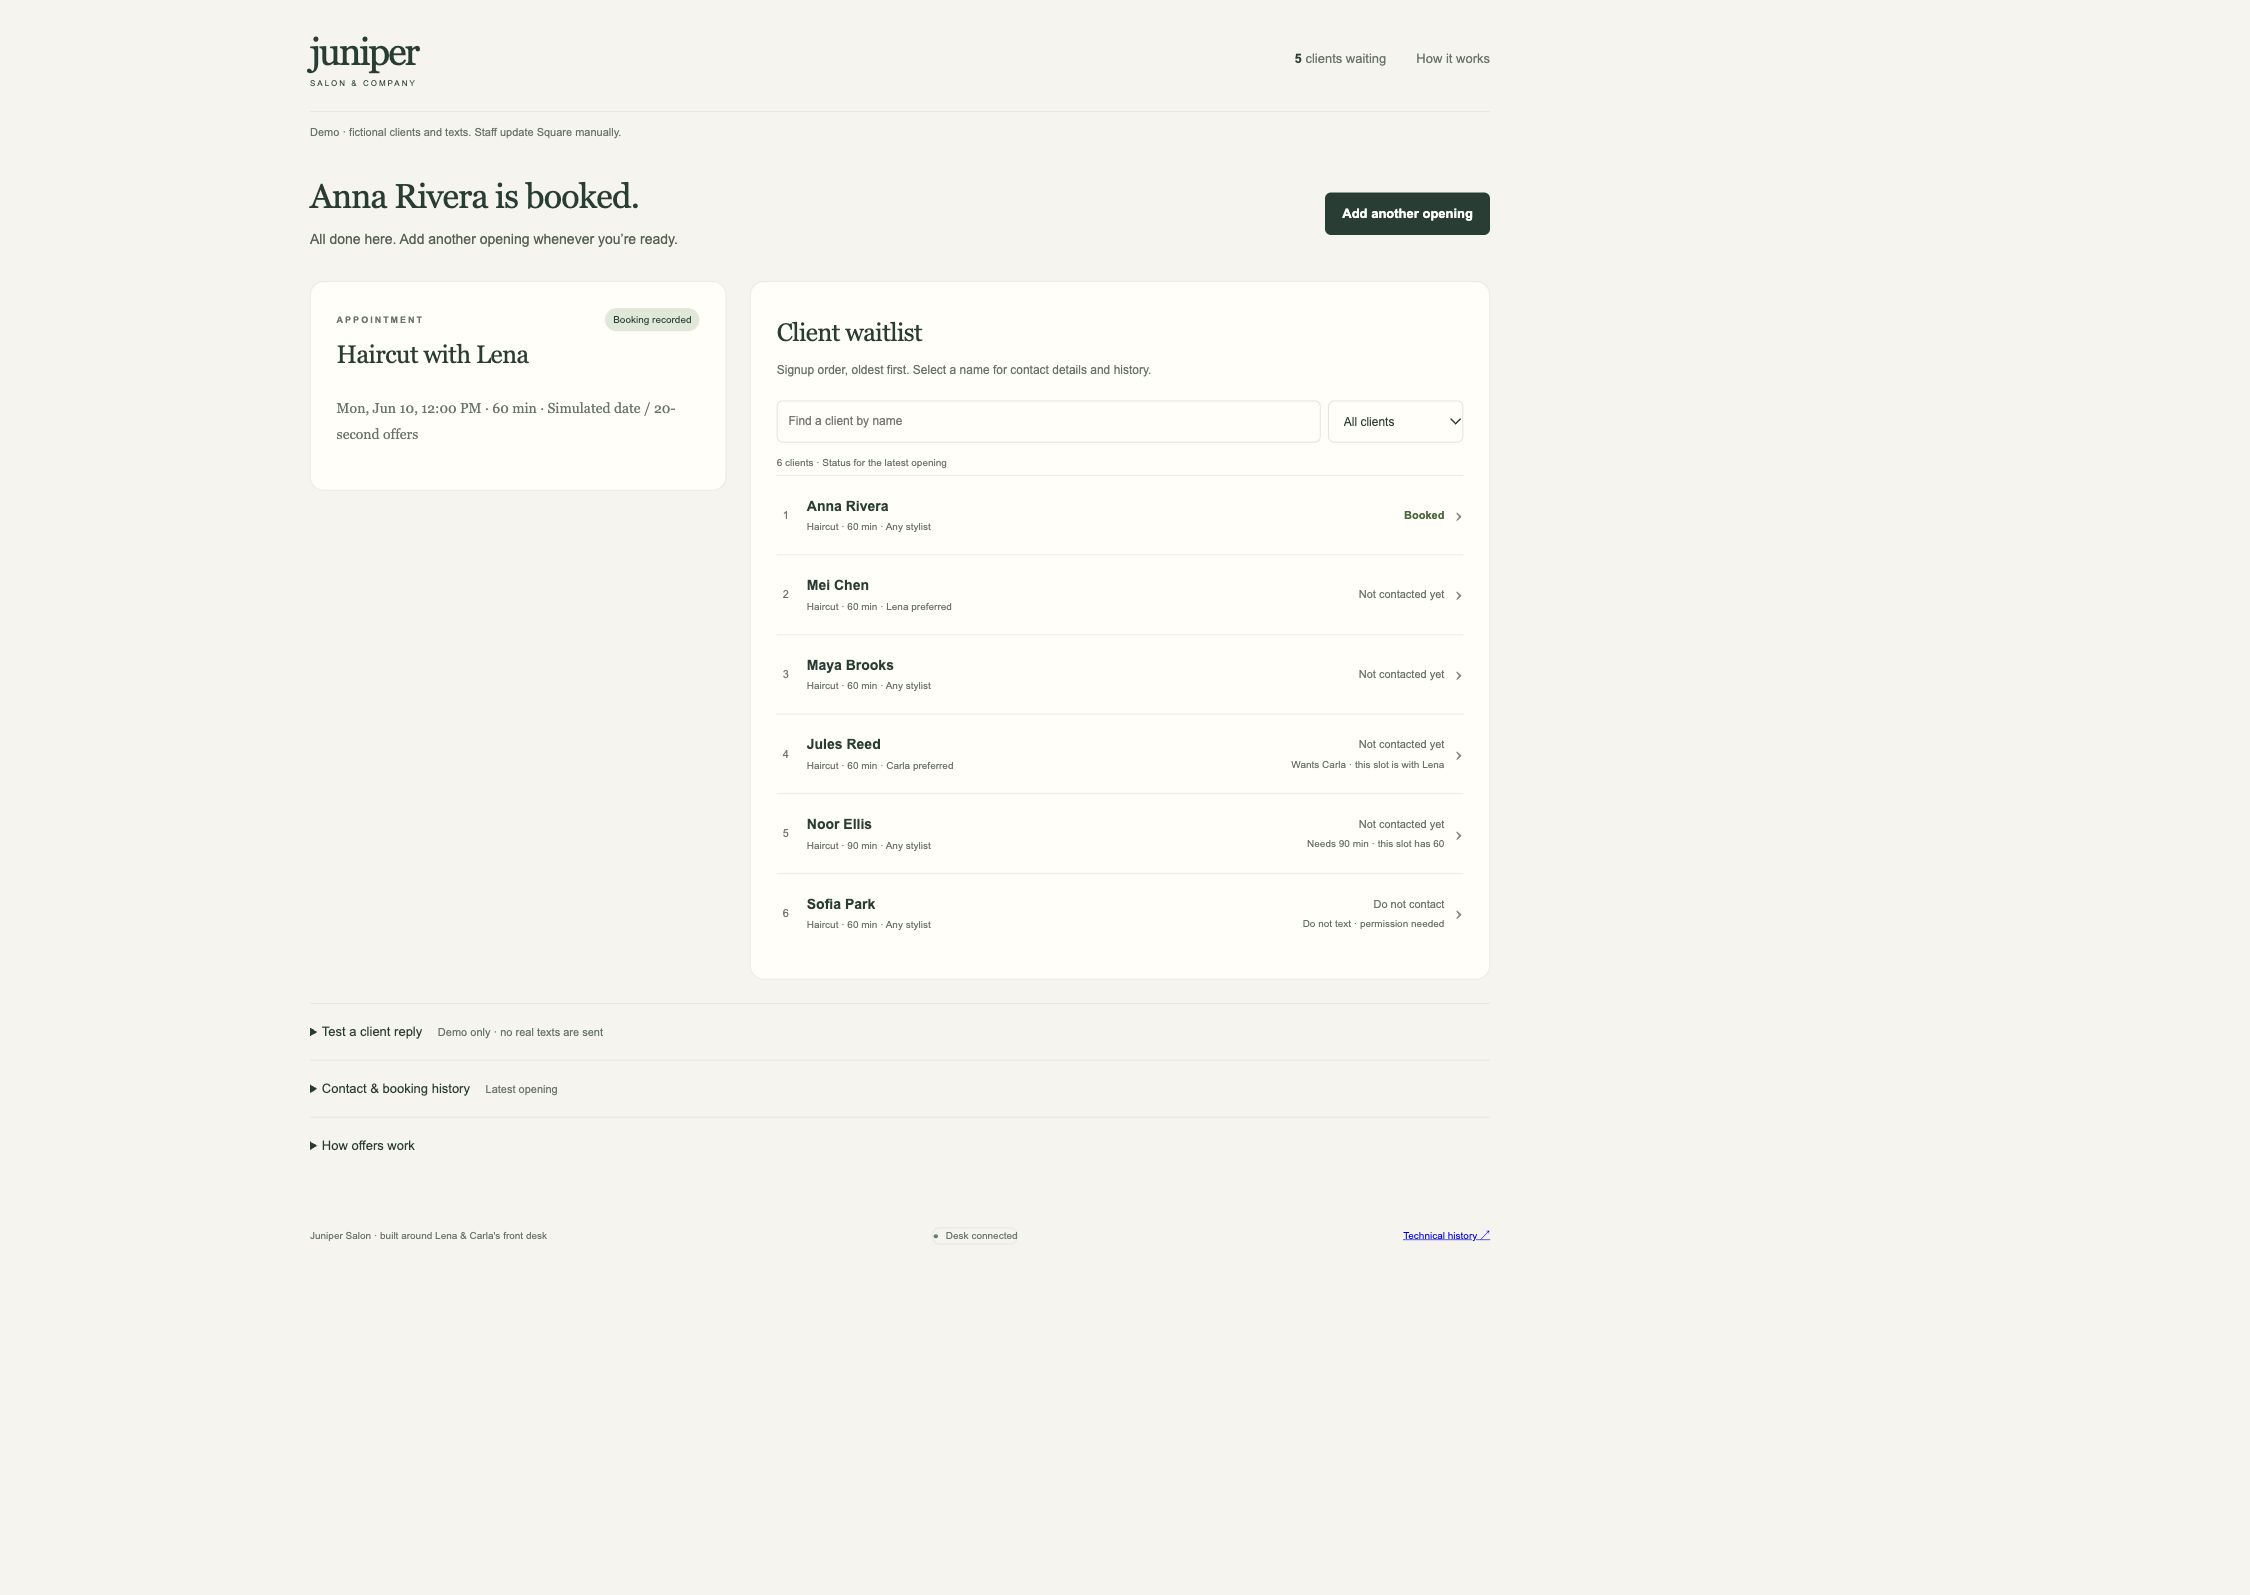
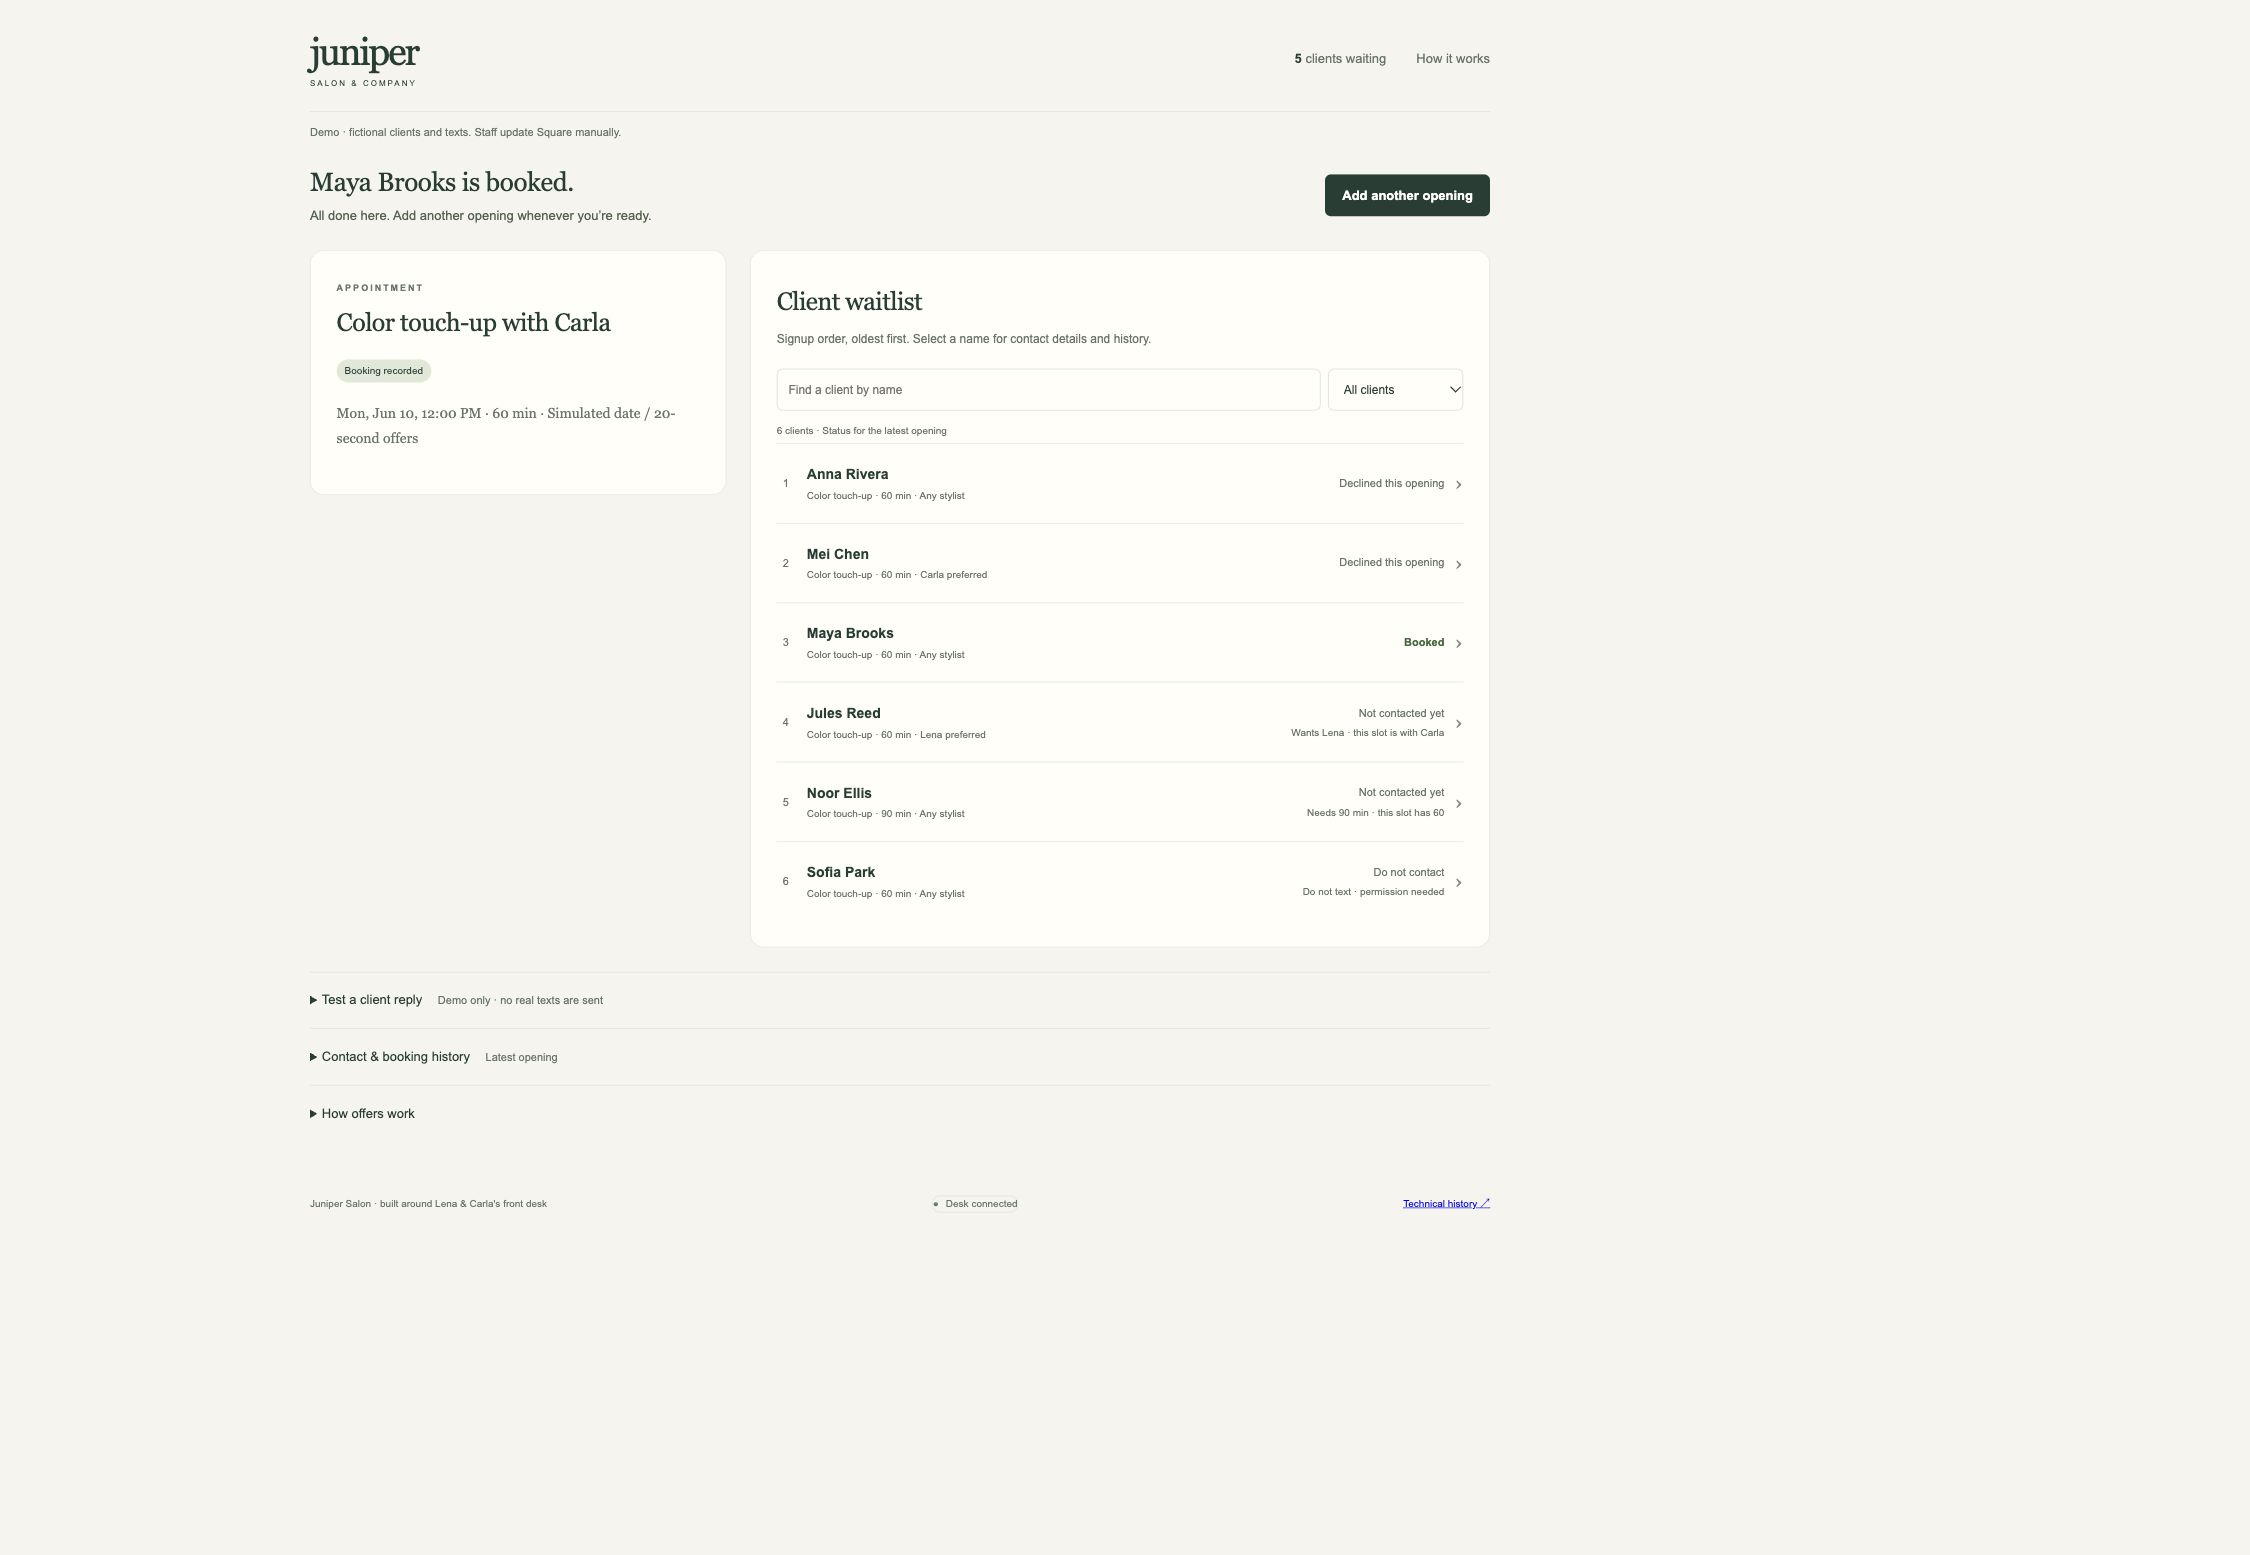
Make the current status compact above the salon desk

diff --git a/public/styles.css b/public/styles.css
@@ -1160,19 +1160,19 @@ main {
 .next-step-banner {
   background: transparent;
   border: 0;
-  padding: 35px 0 30px;
+  padding: 24px 0;
   border-radius: 0;
   gap: 25px;
 }
 .next-step-banner h1 {
-  font-size: 34px;
-  line-height: 1.2;
-  letter-spacing: -0.8px;
-  margin: 0 0 12px;
+  font-size: 26px;
+  line-height: 1.3;
+  letter-spacing: -0.4px;
+  margin: 0 0 6px;
 }
 .next-step-banner p {
   max-width: 660px;
-  font-size: 14px;
+  font-size: 13px;
   line-height: 1.6;
 }
 .next-step-banner button {
@@ -1370,10 +1370,10 @@ footer .connection.offline {
   }
   .next-step-banner {
     display: block;
-    padding: 30px 0;
+    padding: 22px 0;
   }
   .next-step-banner h1 {
-    font-size: 30px;
+    font-size: 24px;
   }
   .next-step-banner p {
     font-size: 13px;
